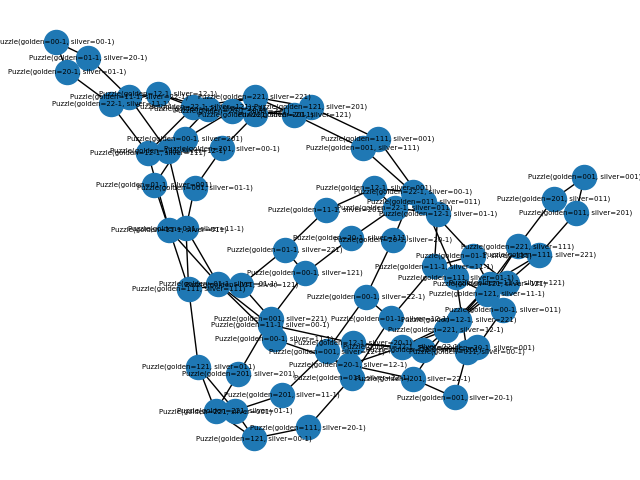
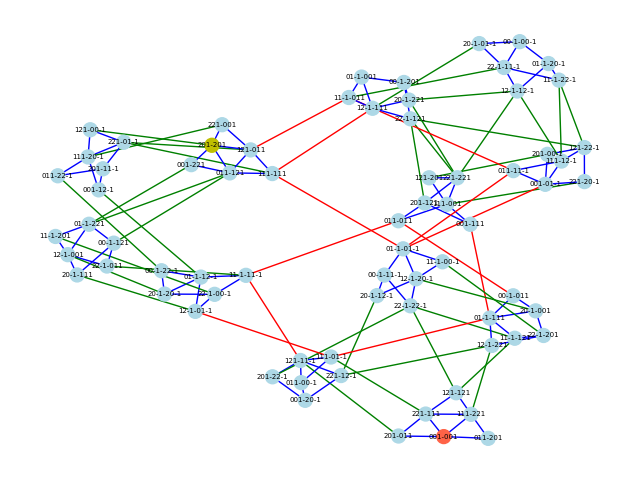
improve visualization

Changed region(s): [[0.0, 0.0625, 1.0, 0.9375], [0.5625, 0.8438, 0.5938, 0.875]]

diff --git a/puzzle.py b/puzzle.py
@@ -2,11 +2,13 @@ from collections import defaultdict
 from dataclasses import dataclass
 from typing import Iterator, Optional, Sequence
 
-import numpy as np
-import networkx as nx
 import matplotlib.pyplot as plt
+import networkx as nx
+import numpy as np
+from networkx.drawing.nx_agraph import graphviz_layout
 
 from element import Element
+from move import Move
 
 
 @dataclass(frozen=True)
@@ -14,20 +16,27 @@ class Puzzle:
     golden: Element = Element()
     silver: Element = Element()
 
-    def next_states(self) -> Iterator[tuple["Puzzle", str]]:
-        yield Puzzle(self.golden.move_inner(), self.silver.move_outer()), "Silver-outer"
-        yield Puzzle(self.golden.move_outer(), self.silver.move_inner()), "Golden-outer"
+    def __str__(self):
+        return f"{self.golden}-{self.silver}"
+
+    @classmethod
+    def initial_state(cls) -> "Puzzle":
+        return Puzzle(Element(2, 0, 1), Element(2, 0, 1))
+
+    @classmethod
+    def goal_state(cls) -> "Puzzle":
+        return Puzzle(Element(0, 0, 1), Element(0, 0, 1))
+
+    def next_states(self) -> Iterator[tuple["Puzzle", Move]]:
+        yield Puzzle(self.golden.move_inner(), self.silver.move_outer()), Move.SO
+        yield Puzzle(self.golden.move_outer(), self.silver.move_inner()), Move.GO
         if self.silver.outer == 2:
-            yield Puzzle(self.golden.change_or(), self.silver.move_inner()), "G-change-or; Silver-loop-hole"
+            yield Puzzle(self.golden.change_or(), self.silver.move_inner()), Move.GCO_SLH
         if self.golden.outer == 2:
-            yield Puzzle(self.golden.move_inner(), self.silver.change_or()), "Golden-loop-hole; S-change-or"
+            yield Puzzle(self.golden.move_inner(), self.silver.change_or()), Move.GLH_SCO
         if self.silver.outer == 1 and self.golden.outer == 1:
-            yield Puzzle(self.golden.change_or(), self.silver.move_inner()), "G-change-or; Silver-loop-thin"
-            yield Puzzle(self.golden.move_inner(), self.silver.change_or()), "Golden-loop-thin; S-change-or"
-
-
-    def random_move(self):
-        return np.random.choice([s for s, _ in self.next_states()])
+            yield Puzzle(self.golden.change_or(), self.silver.move_inner()), Move.GCO_SLT
+            yield Puzzle(self.golden.move_inner(), self.silver.change_or()), Move.GLT_SCO
 
     def explore_states(self) -> tuple[list["Puzzle"], dict["Puzzle", int], dict["Puzzle", Optional["Puzzle"]]]:
         default_distances = defaultdict(lambda: float("inf"))
@@ -53,7 +62,7 @@ class Puzzle:
 
         min_dist = min([distances[s] for s in unvisited])
         active_state = [s for s in unvisited if distances[s] == min_dist][0]
-        unvisited.remove(active_state)
+        unvisited = [s for s in unvisited if s != active_state]
         visited.append(active_state)
 
         for next_state_candidate, move in active_state.next_states():
@@ -61,12 +70,13 @@ class Puzzle:
                 continue
 
             # next_state_candidate not visited
-            unvisited.append(next_state_candidate)
+            if next_state_candidate not in unvisited:
+                unvisited.append(next_state_candidate)
             dist = min_dist + 1
             if dist < distances[next_state_candidate]:
                 distances.update({next_state_candidate: dist})
                 prev.update({next_state_candidate: active_state})
-                prev_move.update({next_state_candidate: move})
+                prev_move.update({next_state_candidate: move.value})
 
         return active_state._explore_states(visited, unvisited, distances, prev, prev_move)
 
@@ -85,14 +95,47 @@ class Puzzle:
             state = prev[state]
 
         return [(state, move)] + path
-    
+
     def visualize_states(self) -> None:
+        def get_node_color(node: str) -> str:
+            if node == str(Puzzle.initial_state()):
+                return "y"
+            elif node == str(Puzzle.goal_state()):
+                return "tomato"
+            else:
+                return "lightblue"
+
+        def get_edge_color(move: Move) -> str:
+            if not move.changes_or():
+                return "blue"
+            elif not move.tricky_move():
+                return "green"
+            else:
+                return "red"
+
+        def get_length(move: Move) -> int:
+            if move.changes_or():
+                return 100
+            else:
+                return 35
+
         graph = nx.Graph()
-        graph.add_node(str(self))
+        node_colors = []
         available_states, _, _, _ = self.explore_states()
         for state in available_states:
-            graph.add_node(str(state))
-            for neighbour, descr in state.next_states():
-                graph.add_edge(str(state), str(neighbour))
-        nx.draw(graph, with_labels=True, font_size=5)
+            for neighbour, move in state.next_states():
+                edge = (str(state), str(neighbour))
+                if graph.has_edge(*edge):
+                    continue
+                for state in edge:
+                    if not graph.has_node(state):
+                        node_colors.append(get_node_color(state))
+                graph.add_edge(*edge, len=get_length(move), color=get_edge_color(move))
+
+        pos = graphviz_layout(graph)
+        edge_colors = [graph[u][v]["color"] for u, v in graph.edges]
+        nx.draw(
+            graph, pos, node_size=100, font_size=5, edge_color=edge_colors, node_color=node_colors, with_labels=True
+        )
         plt.savefig("graph.png")
+        plt.savefig("graph.pdf")

diff --git a/main.py b/main.py
@@ -1,31 +1,12 @@
-from element import Element
 from puzzle import Puzzle
 
-# TODO: port to python 3.11
-# TODO: add readme and publish repo
-# TODO: visualize path graph
 
-INITIAL_STATE = Puzzle(Element(2, 0, 1), Element(2, 0, 1))
-GAOL_STATE = Puzzle(Element(0, 0, 1), Element(0, 0, 1))
-
-
-def get_random_final():
-    puzzle = Puzzle(golden=Element(1, 1), silver=Element(1, 2))
-    final_state = puzzle
-    for _ in range(10):
-        final_state = final_state.random_move()
-    
-    return puzzle, final_state
-
-
-def main(initial_state, final_state):
-    INITIAL_STATE.visualize_states()
-
+def main(initial_state: Puzzle, final_state: Puzzle):
     path = initial_state.get_shortest_path(final_state=final_state)
     for v in path:
         print(v)
 
 
 if __name__ == "__main__":
-    main(INITIAL_STATE, GAOL_STATE)
-
+    Puzzle.goal_state().visualize_states()
+    main(Puzzle.initial_state(), Puzzle.goal_state())

diff --git a/move.py b/move.py
@@ -1,0 +1,16 @@
+from enum import Enum
+
+
+class Move(str, Enum):
+    SO = "Silver-outer"
+    GO = "Golden-outer"
+    GCO_SLH = "G-change-or; Silver-loop-hole"
+    GLH_SCO = "Golden-loop-hole; S-change-or"
+    GCO_SLT = "G-change-or; Silver-loop-thin"
+    GLT_SCO = "Golden-loop-thin; S-change-or"
+
+    def changes_or(self) -> bool:
+        return self != Move.SO and self != Move.GO
+
+    def tricky_move(self) -> bool:
+        return self == Move.GCO_SLT or self == Move.GLT_SCO
